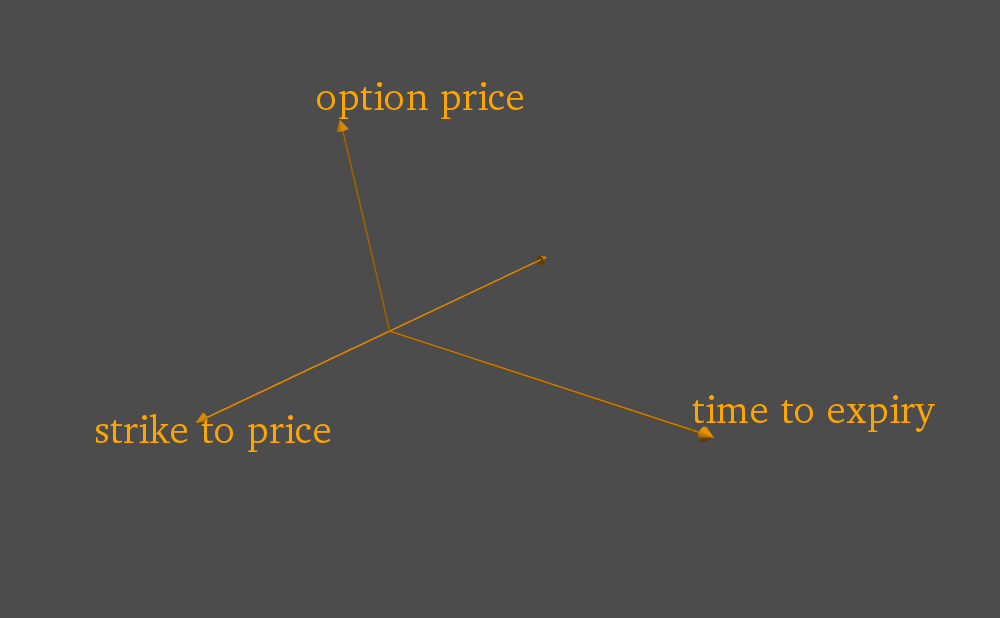
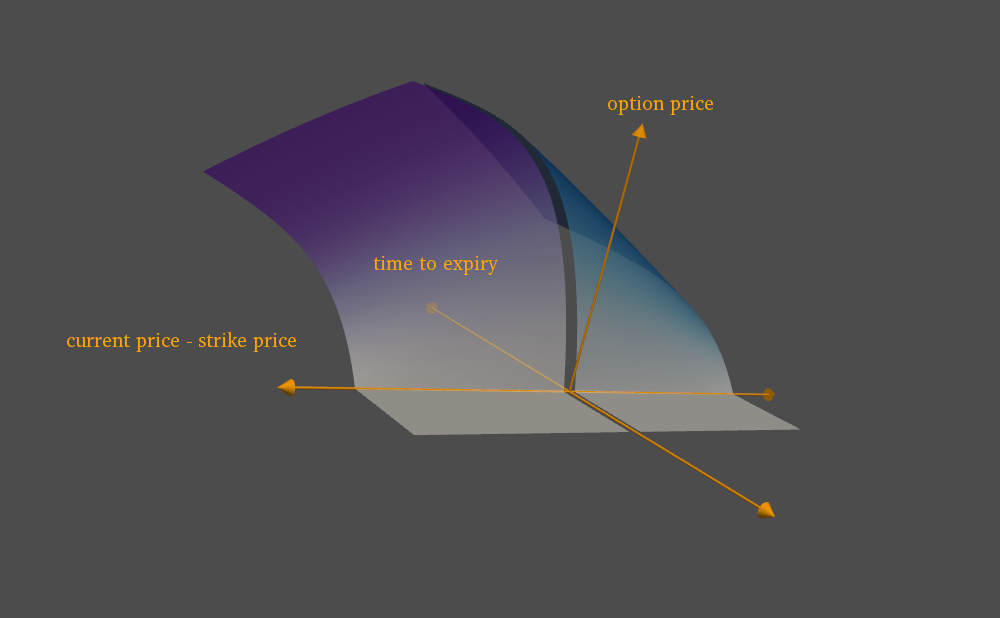
different option price graph generated

diff --git a/src/options_001.py b/src/options_001.py
@@ -454,12 +454,33 @@ def compareVol():
     
     return 
 
+def generateSurface(p, xLim = (0,10), yLim=(0,10), size=6, tau=3, cmap='Blues'):
+
+    x = np.linspace(xLim[0], xLim[1], 200)
+    y = np.linspace(yLim[0], yLim[1], 200)
+    X, Y = np.meshgrid(x, y, indexing='ij')
+
+    tempX =  X-size
+    tempX[tempX>=0] = 0
+    tempX = 1 - np.exp(tempX/tau)
+    
+
+    tempY = 1 - 0.05*np.abs(Y) - 0.001*np.abs(Y)**2 
+
+    putGrid = pv.StructuredGrid( X, Y, tempX*tempY*10)
+    putGrid.point_arrays['put'] =  tempX.flatten(order='F') 
+    p.add_mesh(putGrid, scalars='put', opacity=0.6, cmap=cmap, show_scalar_bar=False)
+    
+    return
 
 def optionValue():
 
-    cPos = [(46.93095469766616, -27.88998412496794, 21.302316808833712),
-            (10.972617296125772, -1.0737982175782594, 3.748331228630286),
-            (-0.1725990516380504, 0.36692983017310155, 0.9140963117214644)]
+    cPos = [(48.328524202142845, -31.04492883772028, 12.7060750926629),
+            (11.98491435919605, -1.2687776221609388, 2.086512605243199),
+            (-0.32167017646972174, -0.05550739912809208, 0.9452233737122527)]
+
+
+
 
     # cPos = None
 
@@ -471,16 +492,14 @@ def optionValue():
             line_smoothing=True,)
 
 
-    plotAxis(p, axis=0, size=20, biDirectional=False, label='time to expiry', labelShift=(0,0,0))
-    plotAxis(p, axis=1, size=10, biDirectional=True, label='strike to price', labelShift=(-2,-25,0))
-    plotAxis(p, axis=2, size=10, biDirectional=False, label='option price', labelShift=(-2,0,1))
+    plotAxis(p, axis=0, size=10, biDirectional=True, axisShift=(16,0,0), labelFontSize=20, label='time to expiry', labelShift=(-26,0,0))
+    plotAxis(p, axis=1, size=12, biDirectional=True,  axisShift=(16,0,0), labelFontSize=20, label='current price - strike price', labelShift=(-3,-31,0))
+    plotAxis(p, axis=2, size=10, biDirectional=False, axisShift=(16,0,0), labelFontSize=20, label='option price', labelShift=(-2,0,1))
 
 
+    generateSurface(p, xLim = (0,20), yLim=(0.3,10), size=16, cmap='Blues')
+    generateSurface(p, xLim = (0,20), yLim=(-0.3,-10), size=16, cmap='Purples')
 
-
-   
-
-    p.reset_camera()
     cPos = p.show(cpos = cPos, screenshot='../images/vals_01.png')
     print(cPos)
 
